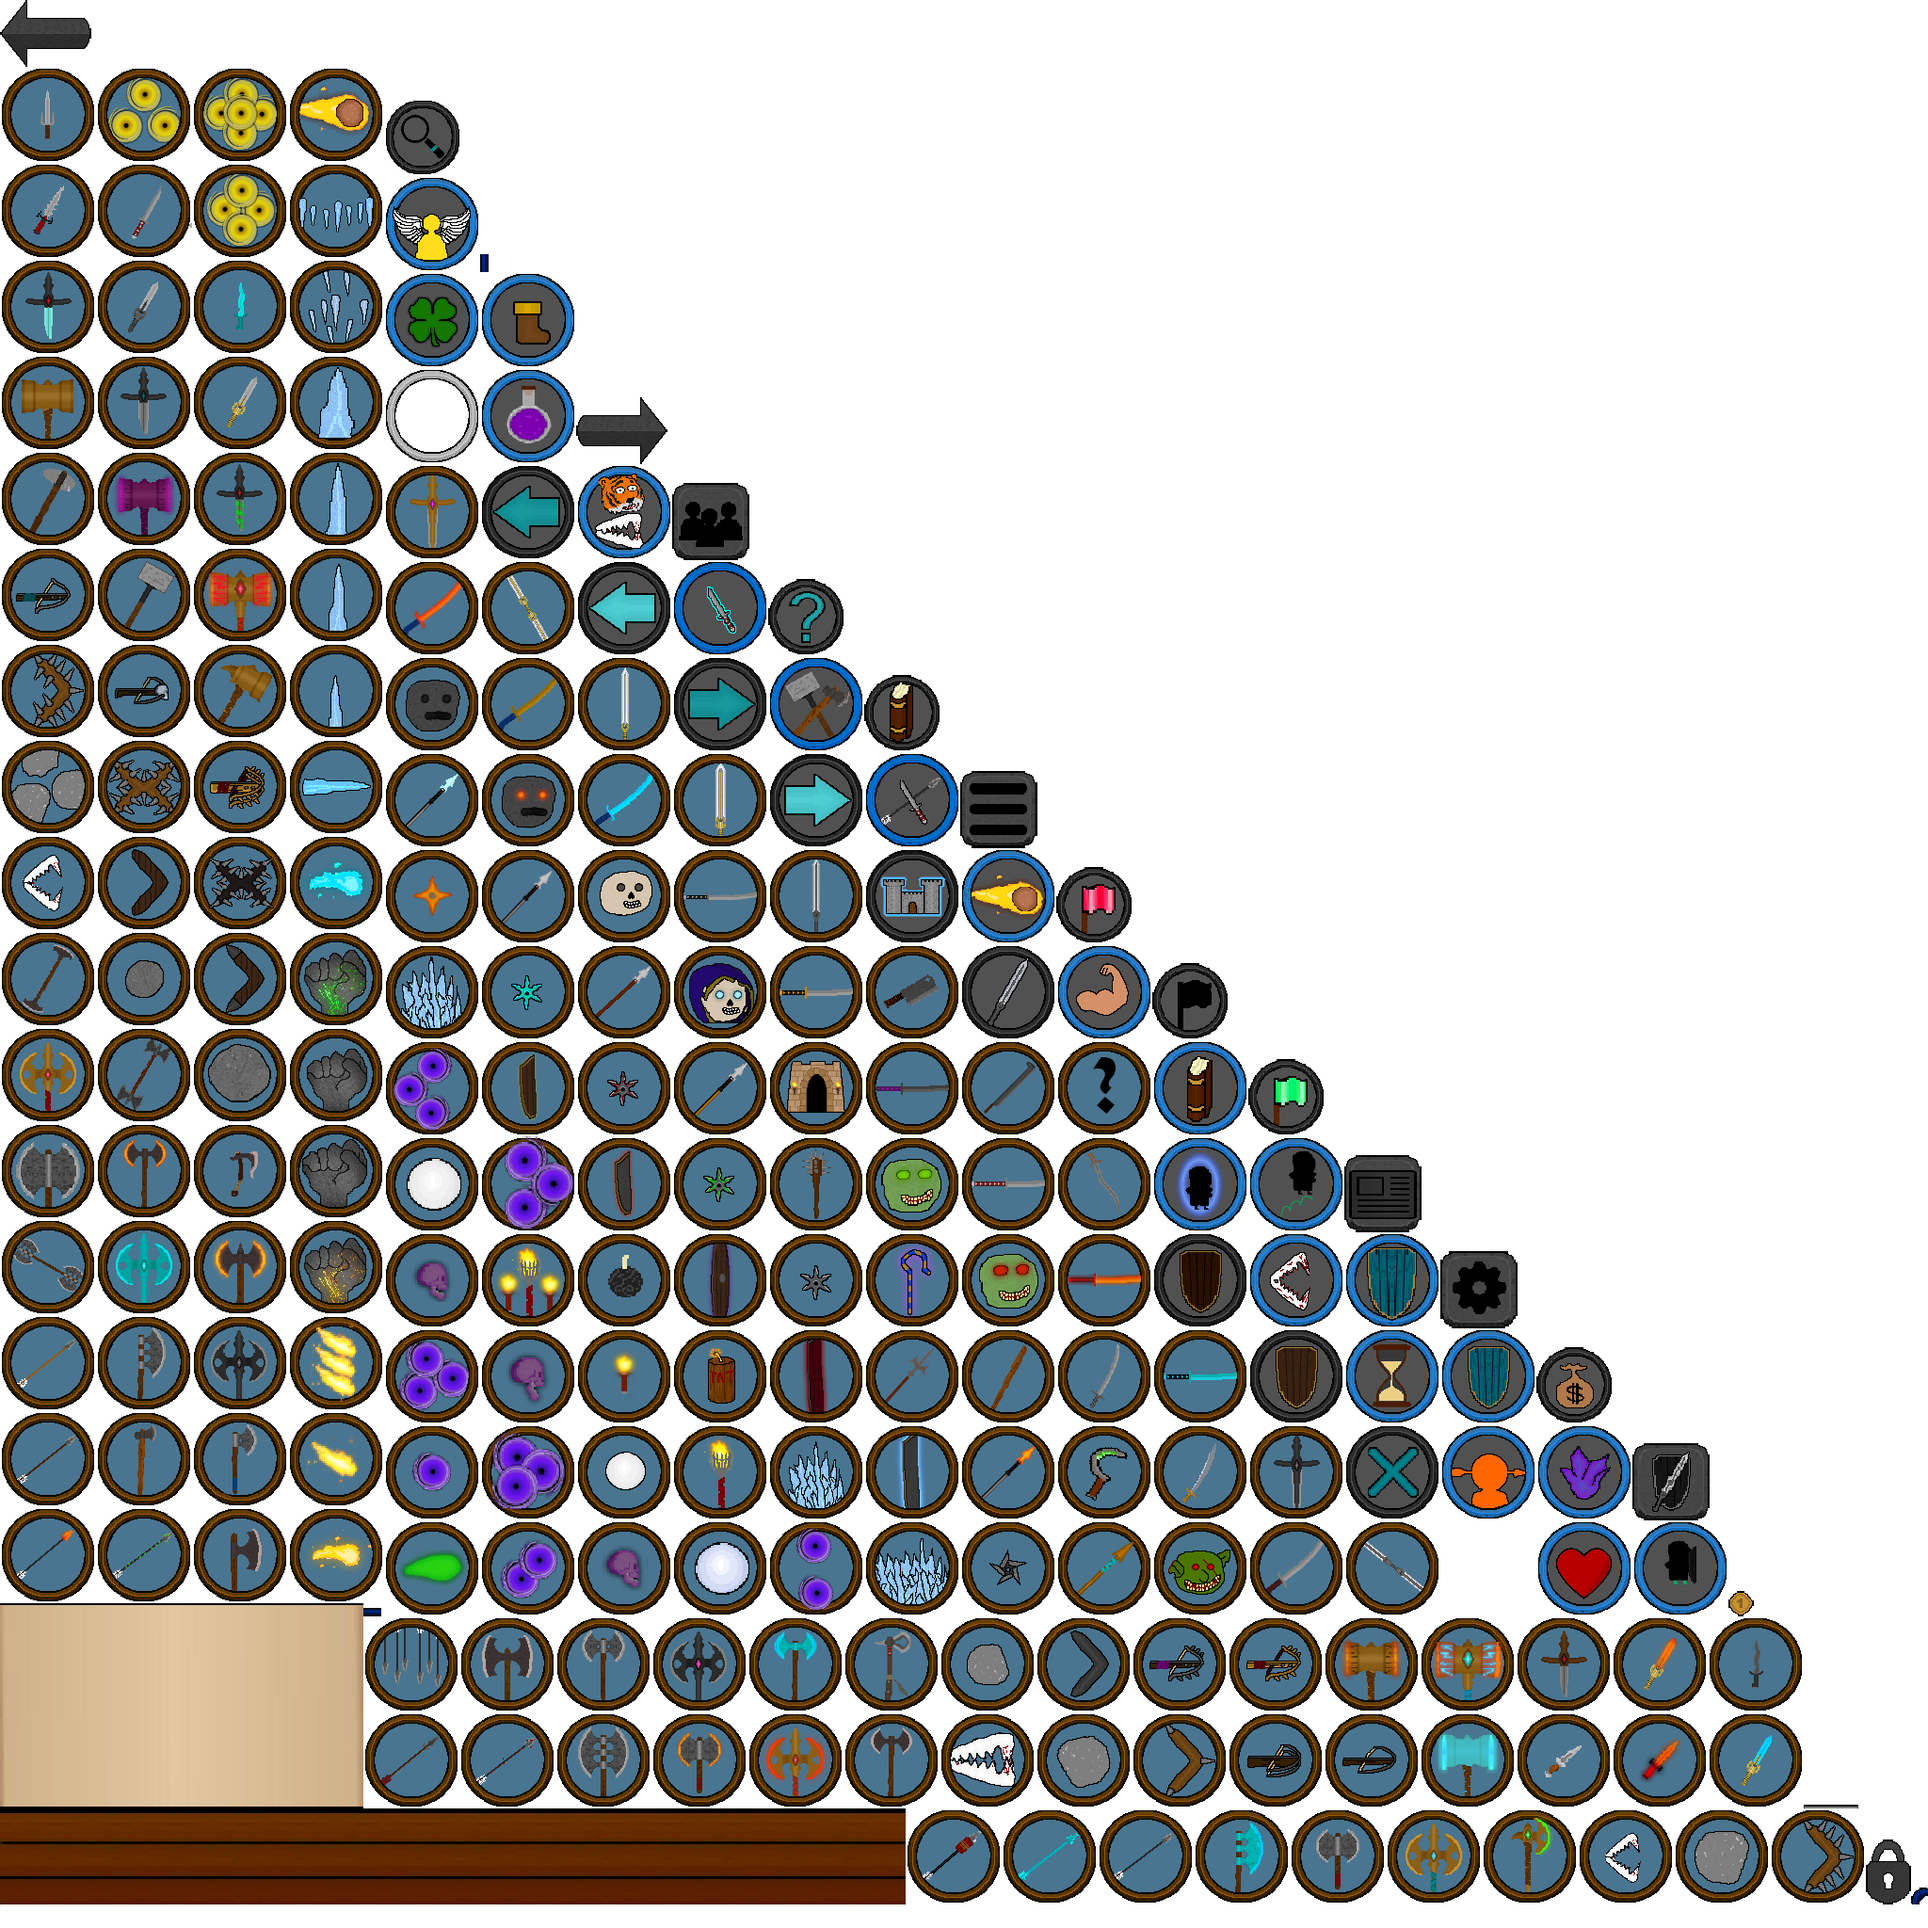
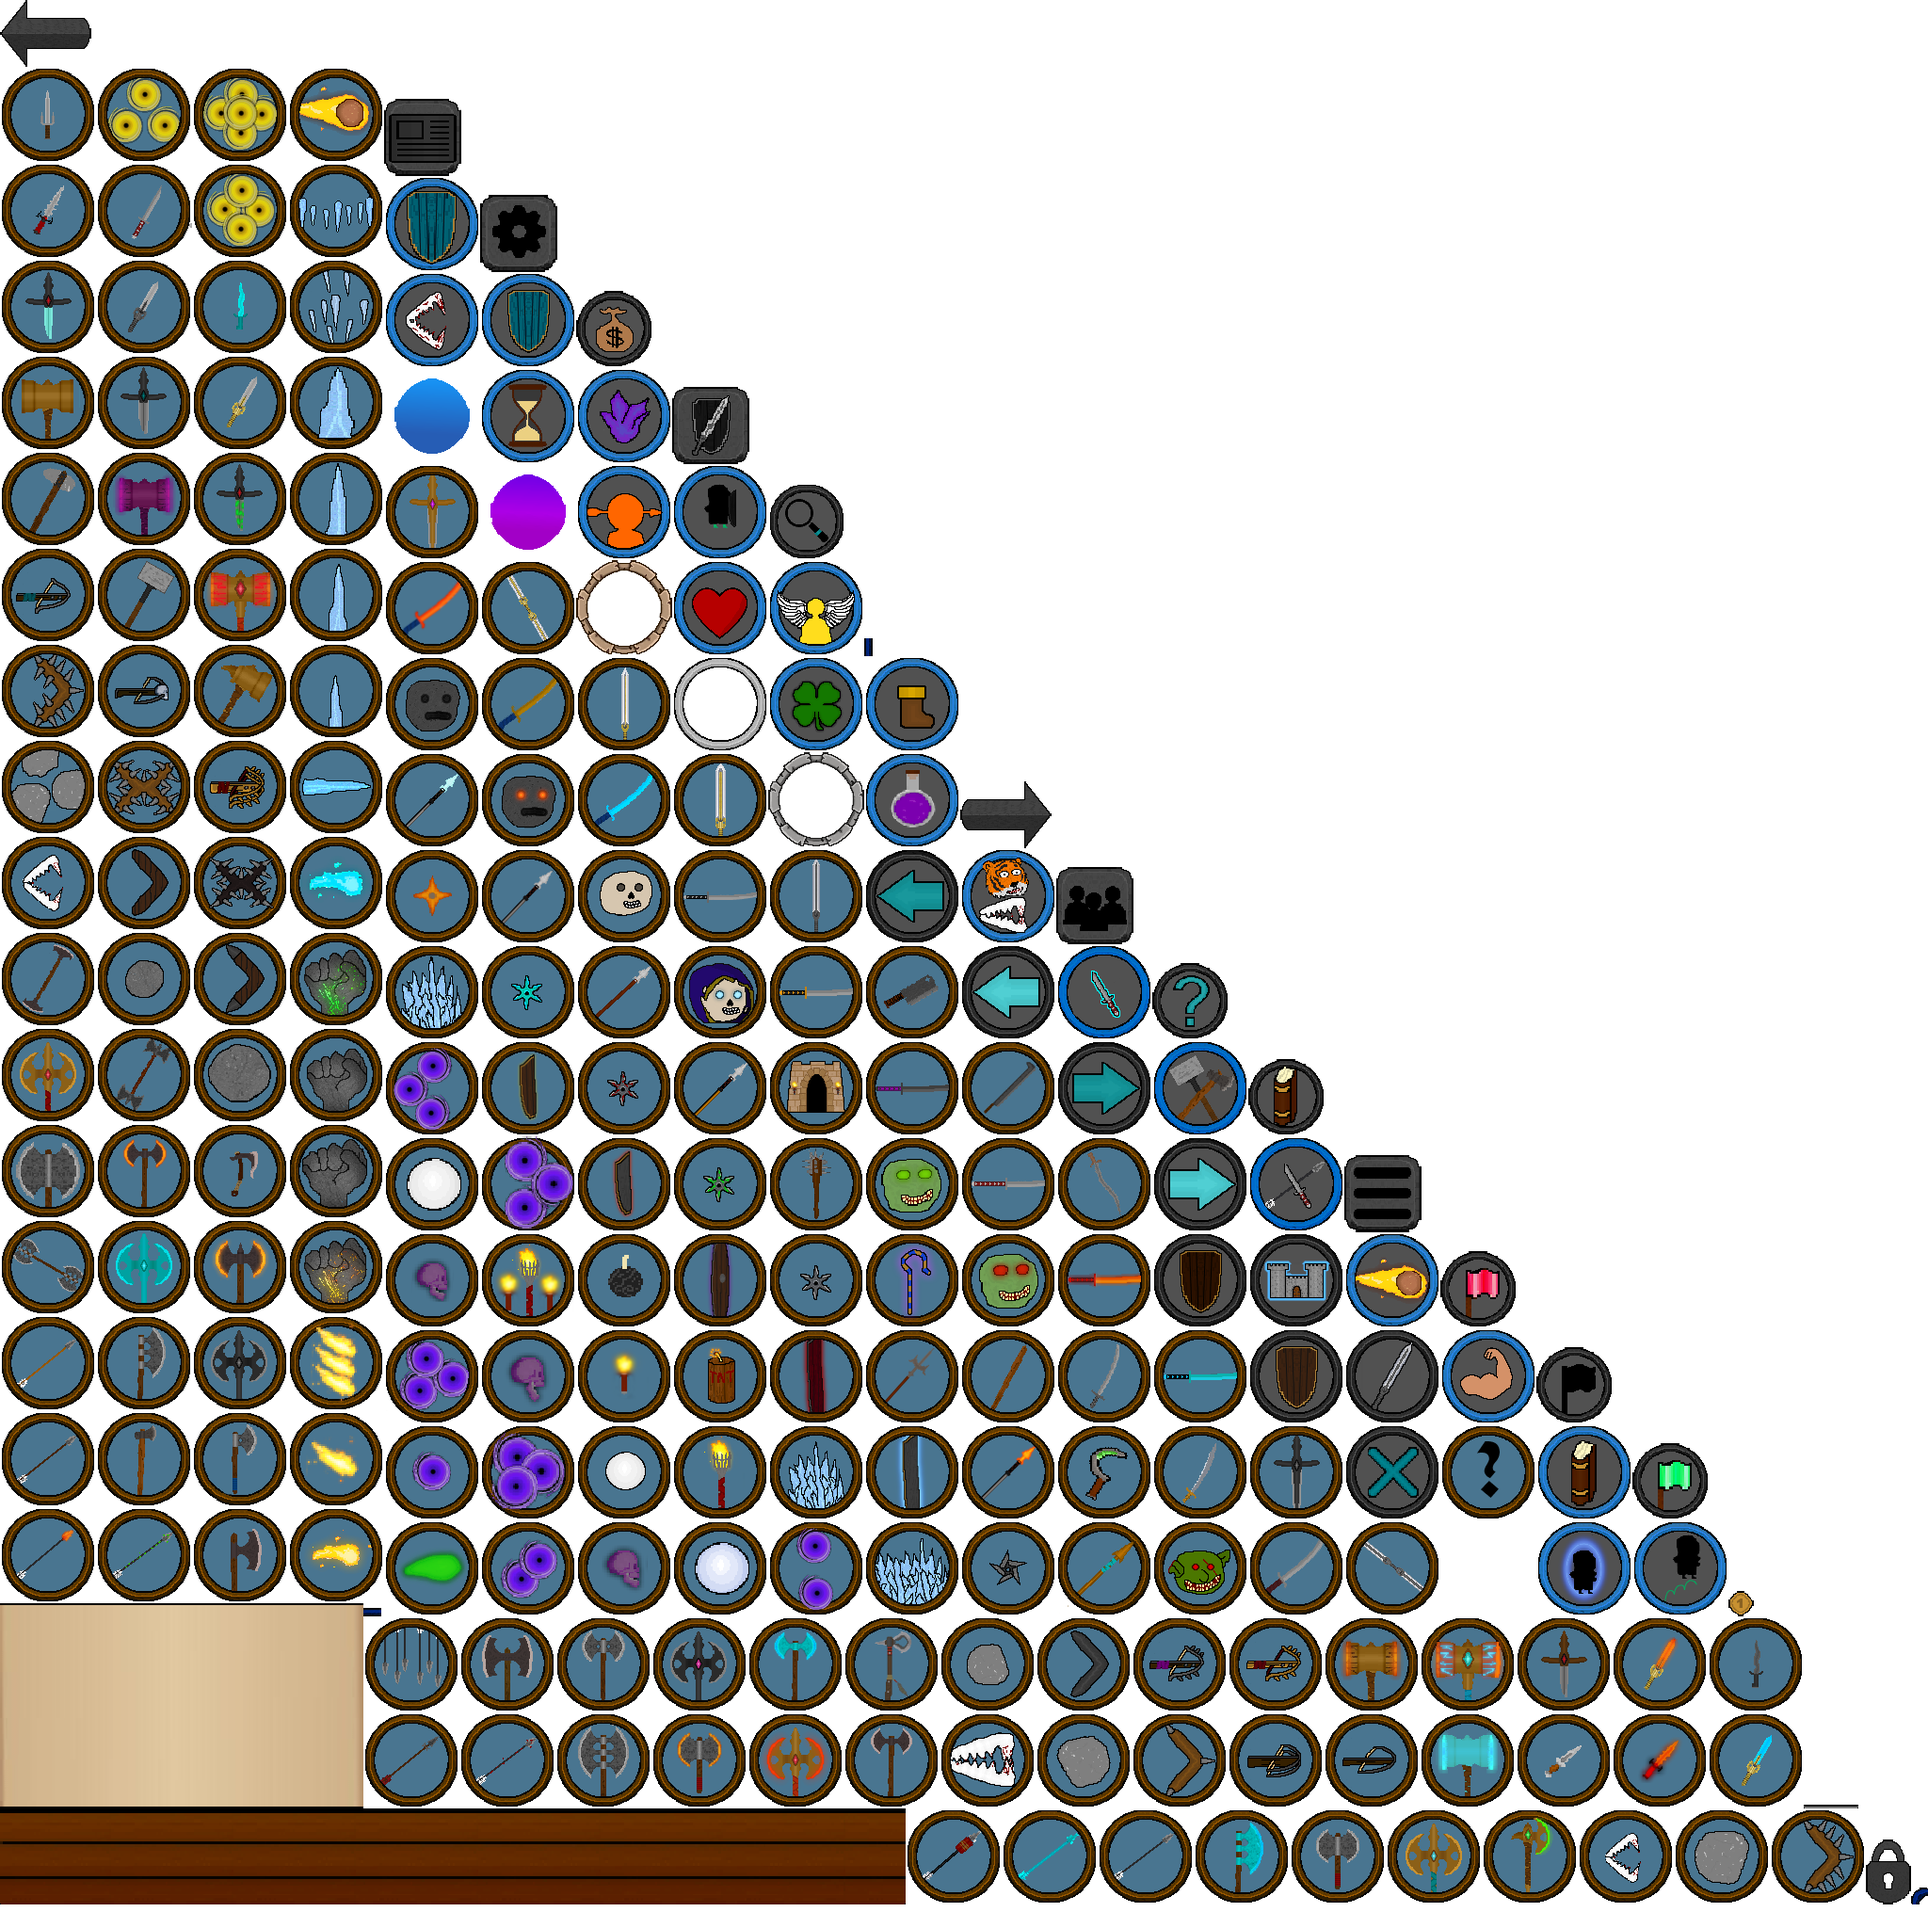
better button frame textures

Changed region(s): [[0.1875, 0.0312, 0.9062, 0.8438]]

diff --git a/core/src/org/neubauerfelix/manawars/castledefense/components/CDComponentUnit.kt b/core/src/org/neubauerfelix/manawars/castledefense/components/CDComponentUnit.kt
@@ -1,6 +1,5 @@
 package org.neubauerfelix.manawars.castledefense.components
 
-import com.badlogic.gdx.graphics.Color
 import com.badlogic.gdx.graphics.g2d.Batch
 import com.badlogic.gdx.graphics.g2d.TextureRegion
 import org.neubauerfelix.manawars.game.IComponent
@@ -18,15 +17,19 @@ class CDComponentUnit(x: Float, y: Float, width: Float, height: Float, val unit 
         MComponent(x, y, width, height) {
 
 
-    private val background: TextureRegion
+    private val background: TextureRegion = if (unit.drainMultiplier == 0f) {
+        MManaWars.m.getImageHandler().getTextureRegionButton("frame.background")
+    } else {
+        MManaWars.m.getImageHandler().getTextureRegionButton("frame.background.vampire")
+    }
+
     private val text: IComponent
 
 
     private val animation: IEntity
 
     init {
-        background = MManaWars.m.getImageHandler().getTextureRegionButton("frame.background")
-        // TODO: Gold armor for boss?
+        // TODO: Gold frame for boss?
         animation = unit.animation.produce(x + width * 0.1f, y + height*0.05f, width*0.8f, height*0.8f)
 
         val color = unit.action.displayColor
@@ -38,11 +41,7 @@ class CDComponentUnit(x: Float, y: Float, width: Float, height: Float, val unit 
     }
 
     override fun draw(delta: Float, batcher: Batch, offsetX: Float, offsetY: Float) {
-        batcher.color = if (unit.drainMultiplier > 0f) Color(175f/255f, 117f/255f, 144f/255f, 1f) else
-            Color(73f/255f, 117f/255f, 144f/255f, 1f)
         batcher.draw(background, x, y, width, height)
-        batcher.color = Color.WHITE
-
 
         MManaWars.m.getCharacterBarHandler().drawFrame(batcher, x, y, width, height, unit.armor.color)
         (animation as IDrawable).draw(delta, batcher)

diff --git a/core/src/org/neubauerfelix/manawars/castledefense/components/CDComponentBuilding.kt b/core/src/org/neubauerfelix/manawars/castledefense/components/CDComponentBuilding.kt
@@ -20,18 +20,14 @@ class CDComponentBuilding(x: Float, y: Float, width: Float, height: Float, val b
         MComponent(x, y, width, height) {
 
 
-    private val background: TextureRegion
+    private val background: TextureRegion = MManaWars.m.getImageHandler().getTextureRegionButton("frame.background")
     private val text: IComponent
 
 
-    private val animation: IEntity
+    private val animation: IEntity = building.animationProducer
+            .produce(x + width * 0.15f, y + height*0.15f, width*0.7f, height*0.7f)
 
     init {
-        background = MManaWars.m.getImageHandler().getTextureRegionButton("frame.background")
-        // TODO: Gold armor for boss?
-        animation = building.animationProducer
-                .produce(x + width * 0.15f, y + height*0.15f, width*0.7f, height*0.7f)
-
         val color = if (building is IDataBuildingAction) {
             building.action.displayColor
         } else {
@@ -45,9 +41,7 @@ class CDComponentBuilding(x: Float, y: Float, width: Float, height: Float, val b
     }
 
     override fun draw(delta: Float, batcher: Batch, offsetX: Float, offsetY: Float) {
-        batcher.color = Color(73f/255f, 117f/255f, 144f/255f, 1f)
         batcher.draw(background, x, y, width, height)
-        batcher.color = Color.WHITE
 
 
        MManaWars.m.getCharacterBarHandler().drawFrame(batcher, x, y, width, height, Color.DARK_GRAY)

diff --git a/core/src/org/neubauerfelix/manawars/castledefense/player/CDControllerHuman.kt b/core/src/org/neubauerfelix/manawars/castledefense/player/CDControllerHuman.kt
@@ -23,7 +23,7 @@ class CDControllerHuman(val league: IDataLeague) : ICDController {
         get() = true
 
     override fun showControls() {
-        val size = GameConstants.CONTROLPANEL_BUTTON_SIZE * 0.4f
+        val size = GameConstants.CONTROLPANEL_BUTTON_SIZE
         var x = GameConstants.CONTROLPANEL_BUTTON_BORDER
         val y = GameConstants.WORLD_HEIGHT + (GameConstants.CONTROLPANEL_HEIGHT - size) / 2f
         for (unit in player.tribe.army.units) {
